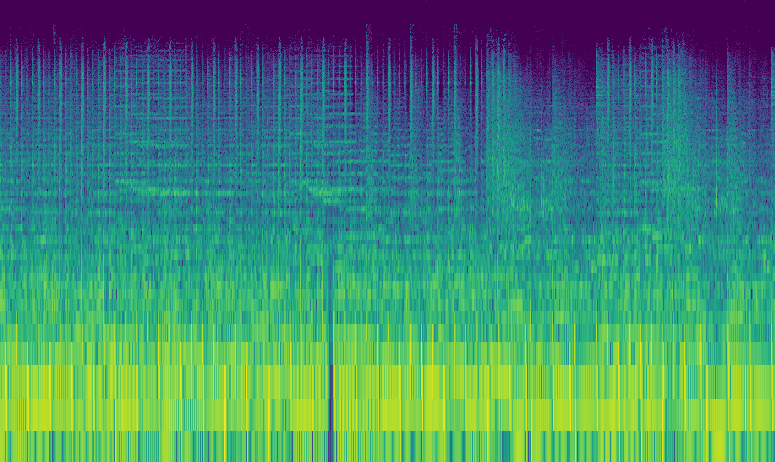
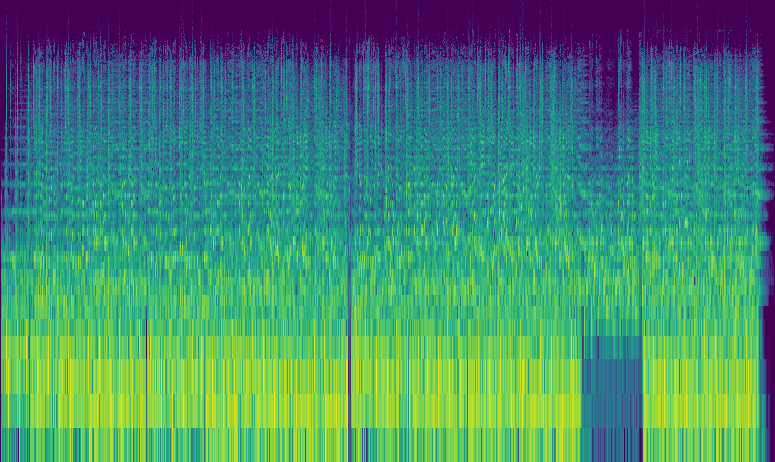
hash 1.1

diff --git a/training.py b/training.py
@@ -16,6 +16,10 @@ class Train(Core):
         self.image_path = "TuneTrack/images/spectro.png"
         self.hashed = {}
         self.datafeatures = []
+        self.contrast = None
+        self.bandwidth = None
+        self.flatness = None
+        self.mfccs = None
 
 
         self.generate_spectrogram()
@@ -27,17 +31,46 @@ class Train(Core):
         spectrogram = np.abs(librosa.stft(audio_data, n_fft=1024, hop_length=512))
         spectrogram_db = librosa.amplitude_to_db(spectrogram, ref=np.max)
         # contrast
-        contrast = librosa.feature.spectral_contrast(y=spectrogram, sr=sr)
-        self.datafeatures.append(contrast)
+        self.contrast = librosa.feature.spectral_contrast(y=spectrogram, sr=sr)
+        self.datafeatures.append(self.contrast)
+                # Flatten the array and pad or truncate as necessary
+        flattened = self.contrast.flatten()
+        desired_size = np.prod((513, 1, 40))
+
+        # Pad or truncate to fit the target size
+        if flattened.size < desired_size:
+            flattened = np.pad(flattened, (0, desired_size - flattened.size), mode='constant')
+        elif flattened.size > desired_size:
+            flattened = flattened[:desired_size]
+
+        # Reshape to the target shape
+        self.contrast = flattened.reshape((513, 1, 40))
+        print(self.contrast.shape)
+
         # flatness
-        flatness = librosa.feature.spectral_flatness(y=spectrogram)
-        self.datafeatures.append(flatness)
+        self.flatness = librosa.feature.spectral_flatness(y=spectrogram)
+        self.datafeatures.append(self.flatness)
+        print(self.flatness.shape)
         # bandwidth
-        bandwidth = librosa.feature.spectral_bandwidth(y=spectrogram, sr=sr)
-        self.datafeatures.append(bandwidth)
+        self.bandwidth = librosa.feature.spectral_bandwidth(y=spectrogram, sr=sr)
+        self.datafeatures.append(self.bandwidth)
+        print(self.bandwidth.shape)
         # mfcc
-        mfccs = librosa.feature.mfcc(y=spectrogram, sr=sr)
-        self.datafeatures.append(mfccs[:20])
+        self.mfccs = librosa.feature.mfcc(y=spectrogram, sr=sr)
+        # Flatten the array and pad or truncate as necessary
+        flattened = self.mfccs.flatten()
+        desired_size = np.prod((513, 1, 40))
+
+        # Pad or truncate to fit the target size
+        if flattened.size < desired_size:
+            flattened = np.pad(flattened, (0, desired_size - flattened.size), mode='constant')
+        elif flattened.size > desired_size:
+            flattened = flattened[:desired_size]
+
+        # Reshape to the target shape
+        self.mfccs = flattened.reshape((513, 1, 40))
+        self.datafeatures.append(self.mfccs)
+        print(self.mfccs.shape)
 
         plt.figure(figsize=(10, 6))
         librosa.display.specshow(spectrogram_db, sr=sr, hop_length=512, x_axis='time', y_axis='log', cmap='viridis')
@@ -52,13 +85,12 @@ class Train(Core):
         print("compute hash")
 
     def save_hashes(self):
-        print(self.datafeatures)
-        feature_vector = np.concatenate((self.datafeatures)) 
+        feature_vector = np.concatenate((self.contrast, self.bandwidth, self.mfccs, self.flatness), axis=0) 
         feature_hash = hashlib.sha256(feature_vector).hexdigest() 
 
         with open("TuneTrack/hashed_data.json", "w") as f:
-            json.dump({"feature_hash": feature_hash}, f, indent=4)
+            json.dump({"feature_hash2": feature_hash}, f, indent=4)
             print("saved features, feature hash, and spectrogram hash")
 
 
-train = Train("TuneTrack/Music/Group1_Save-your-tears(instruments).wav")
+train = Train("TuneTrack/Music/Group1_Save-your-tears(original).wav")
